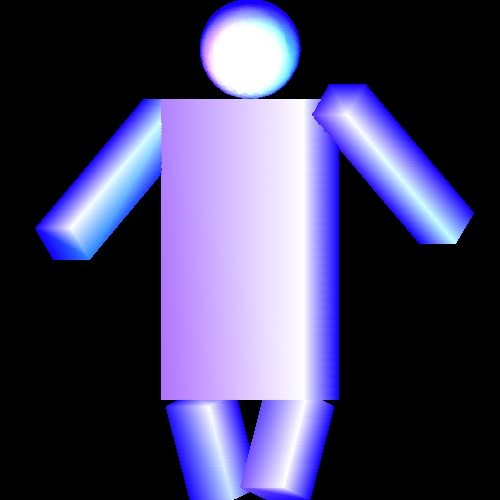
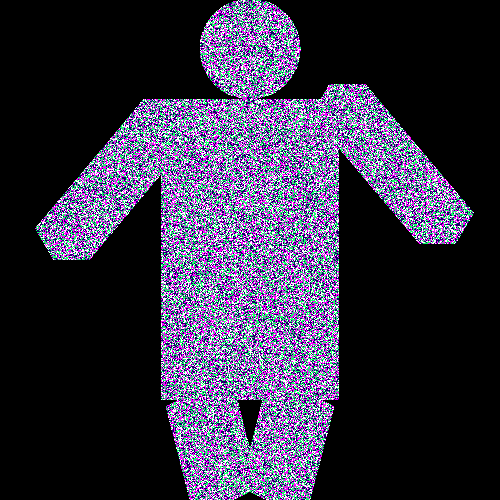
REAL PHONG

diff --git a/draw.h b/draw.h
@@ -10,7 +10,7 @@
 #define LSPECULAR 2
 #define FLAT 0
 #define GOURAUD 1
-#define PHONG 1
+#define PHONG 2
 
 void draw_line1(int x0, int y0, double z0, int x1, int y1, double z1, screen s, struct matrix* zbuf, color c0, color c1);
 void draw_line(int x0, int y0, double z0, int x1, int y1, double z1, screen s, color c, struct matrix* zbuf);

diff --git a/draw.c b/draw.c
@@ -767,6 +767,7 @@ void draw_polygons( struct matrix * polygons, screen s, color c, struct matrix* 
 			      }
 			    }
 			    draw_line2(xL,y,zL,xR,y,zR,s,zbuf,nL,nR,rcolor,ambient,point);
+			    y+=1;
 			  }  
 			    //PHONG END
 			  
